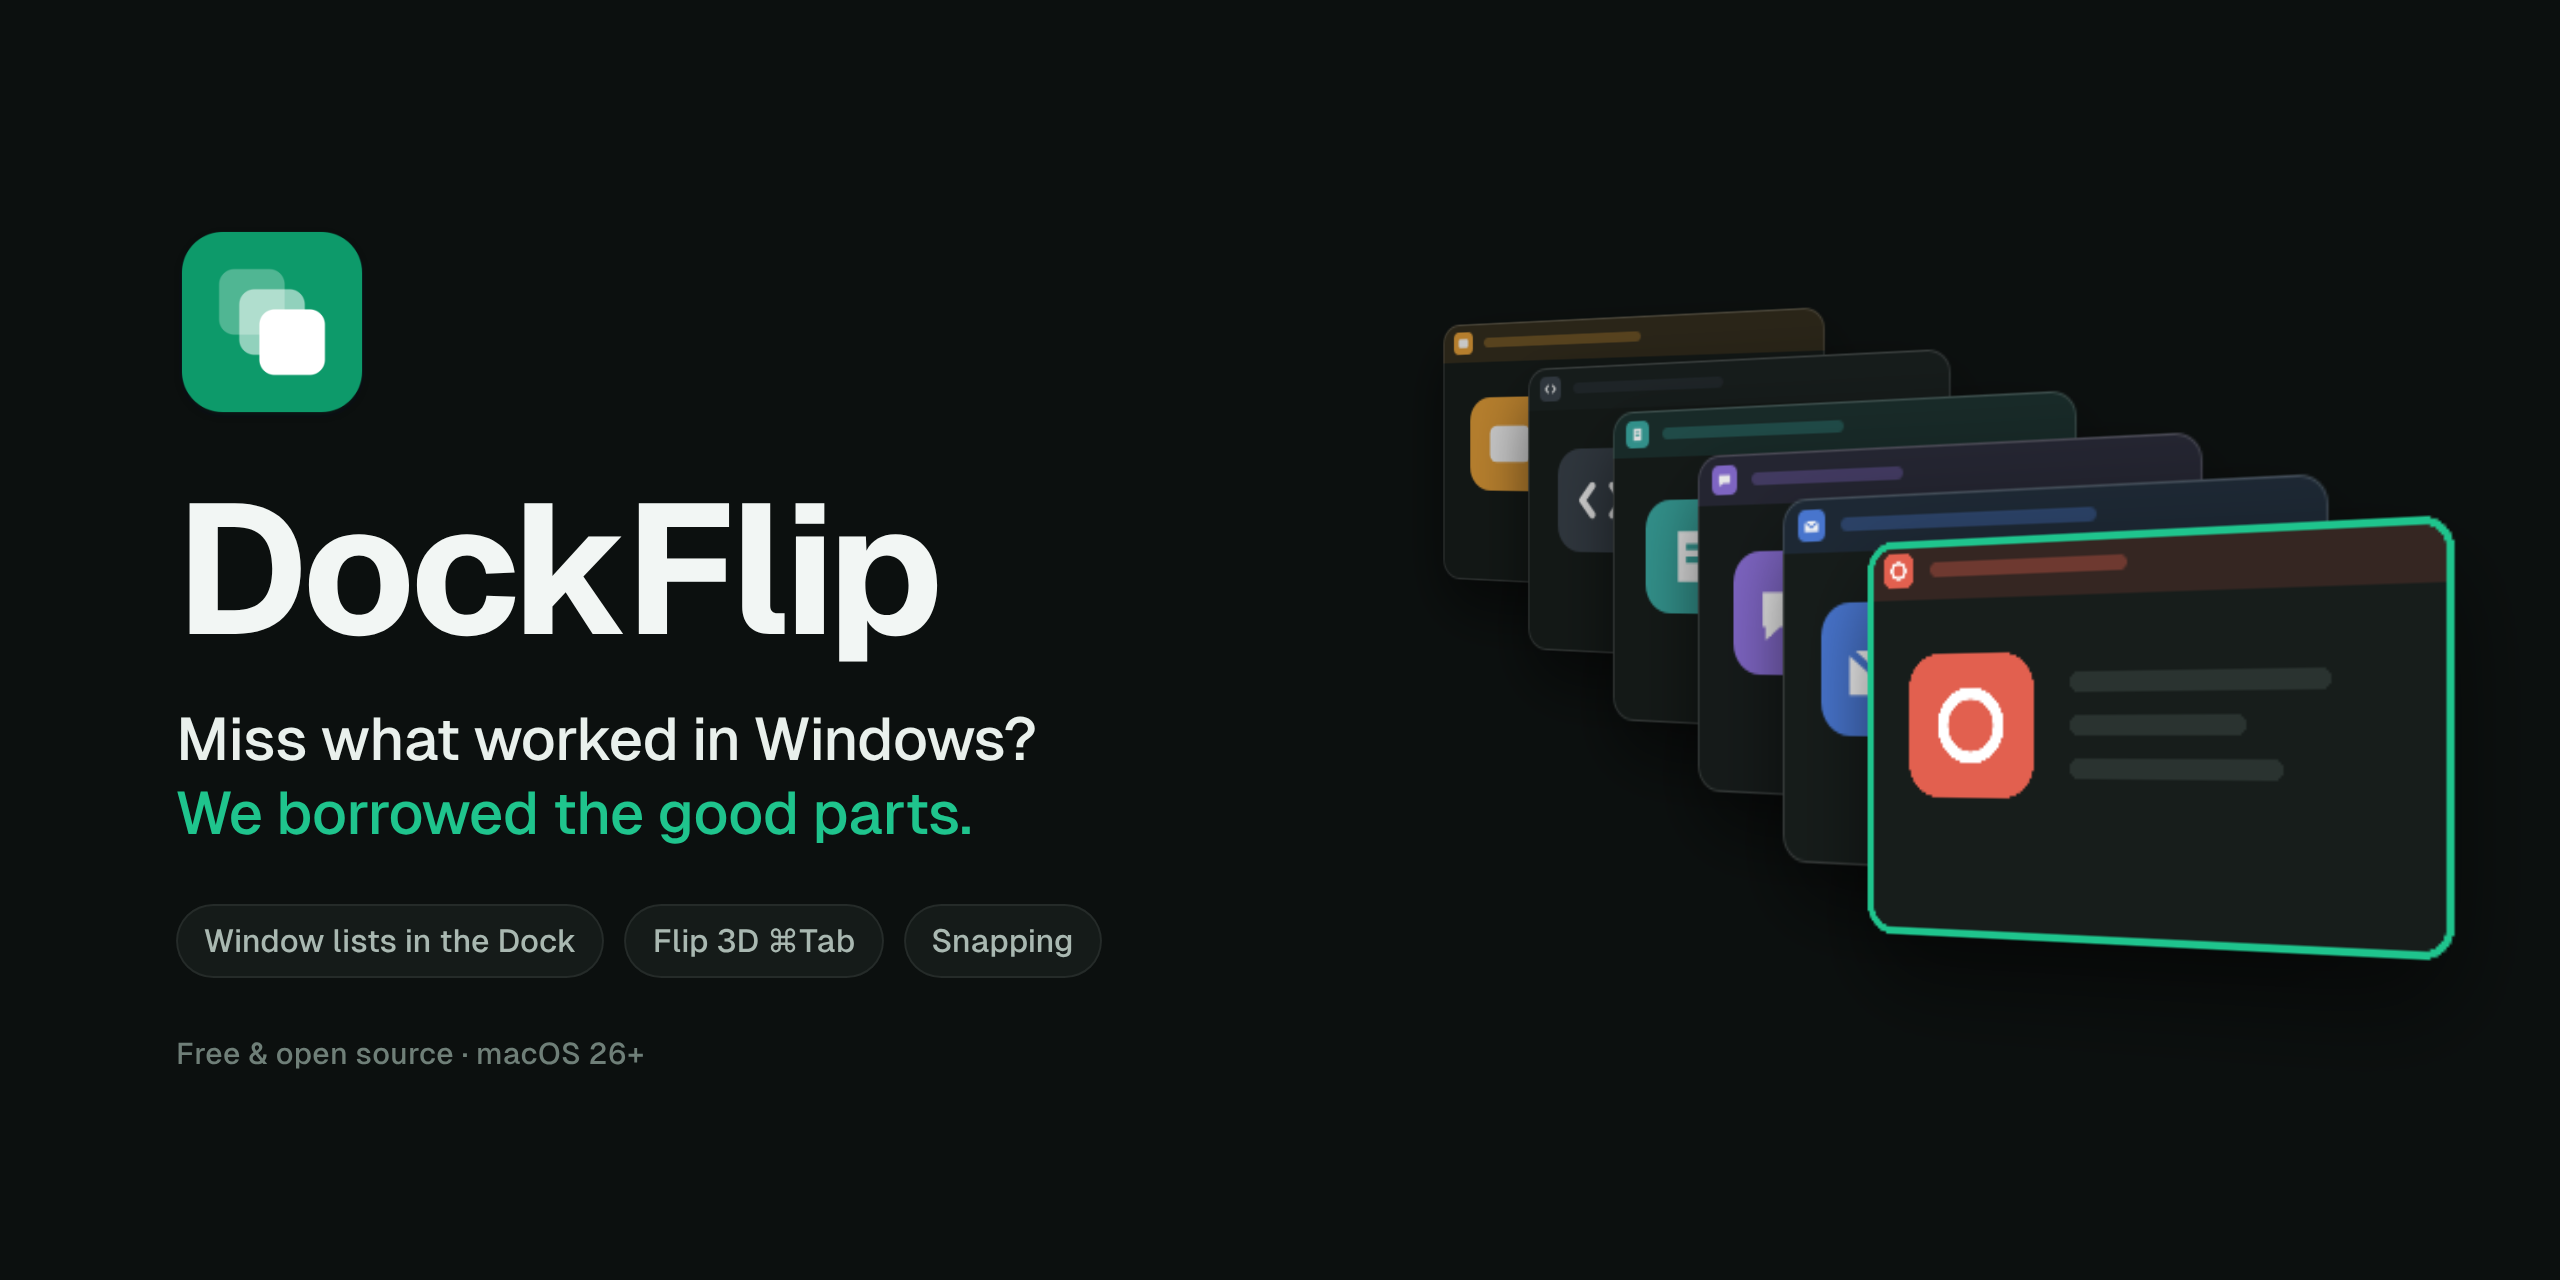
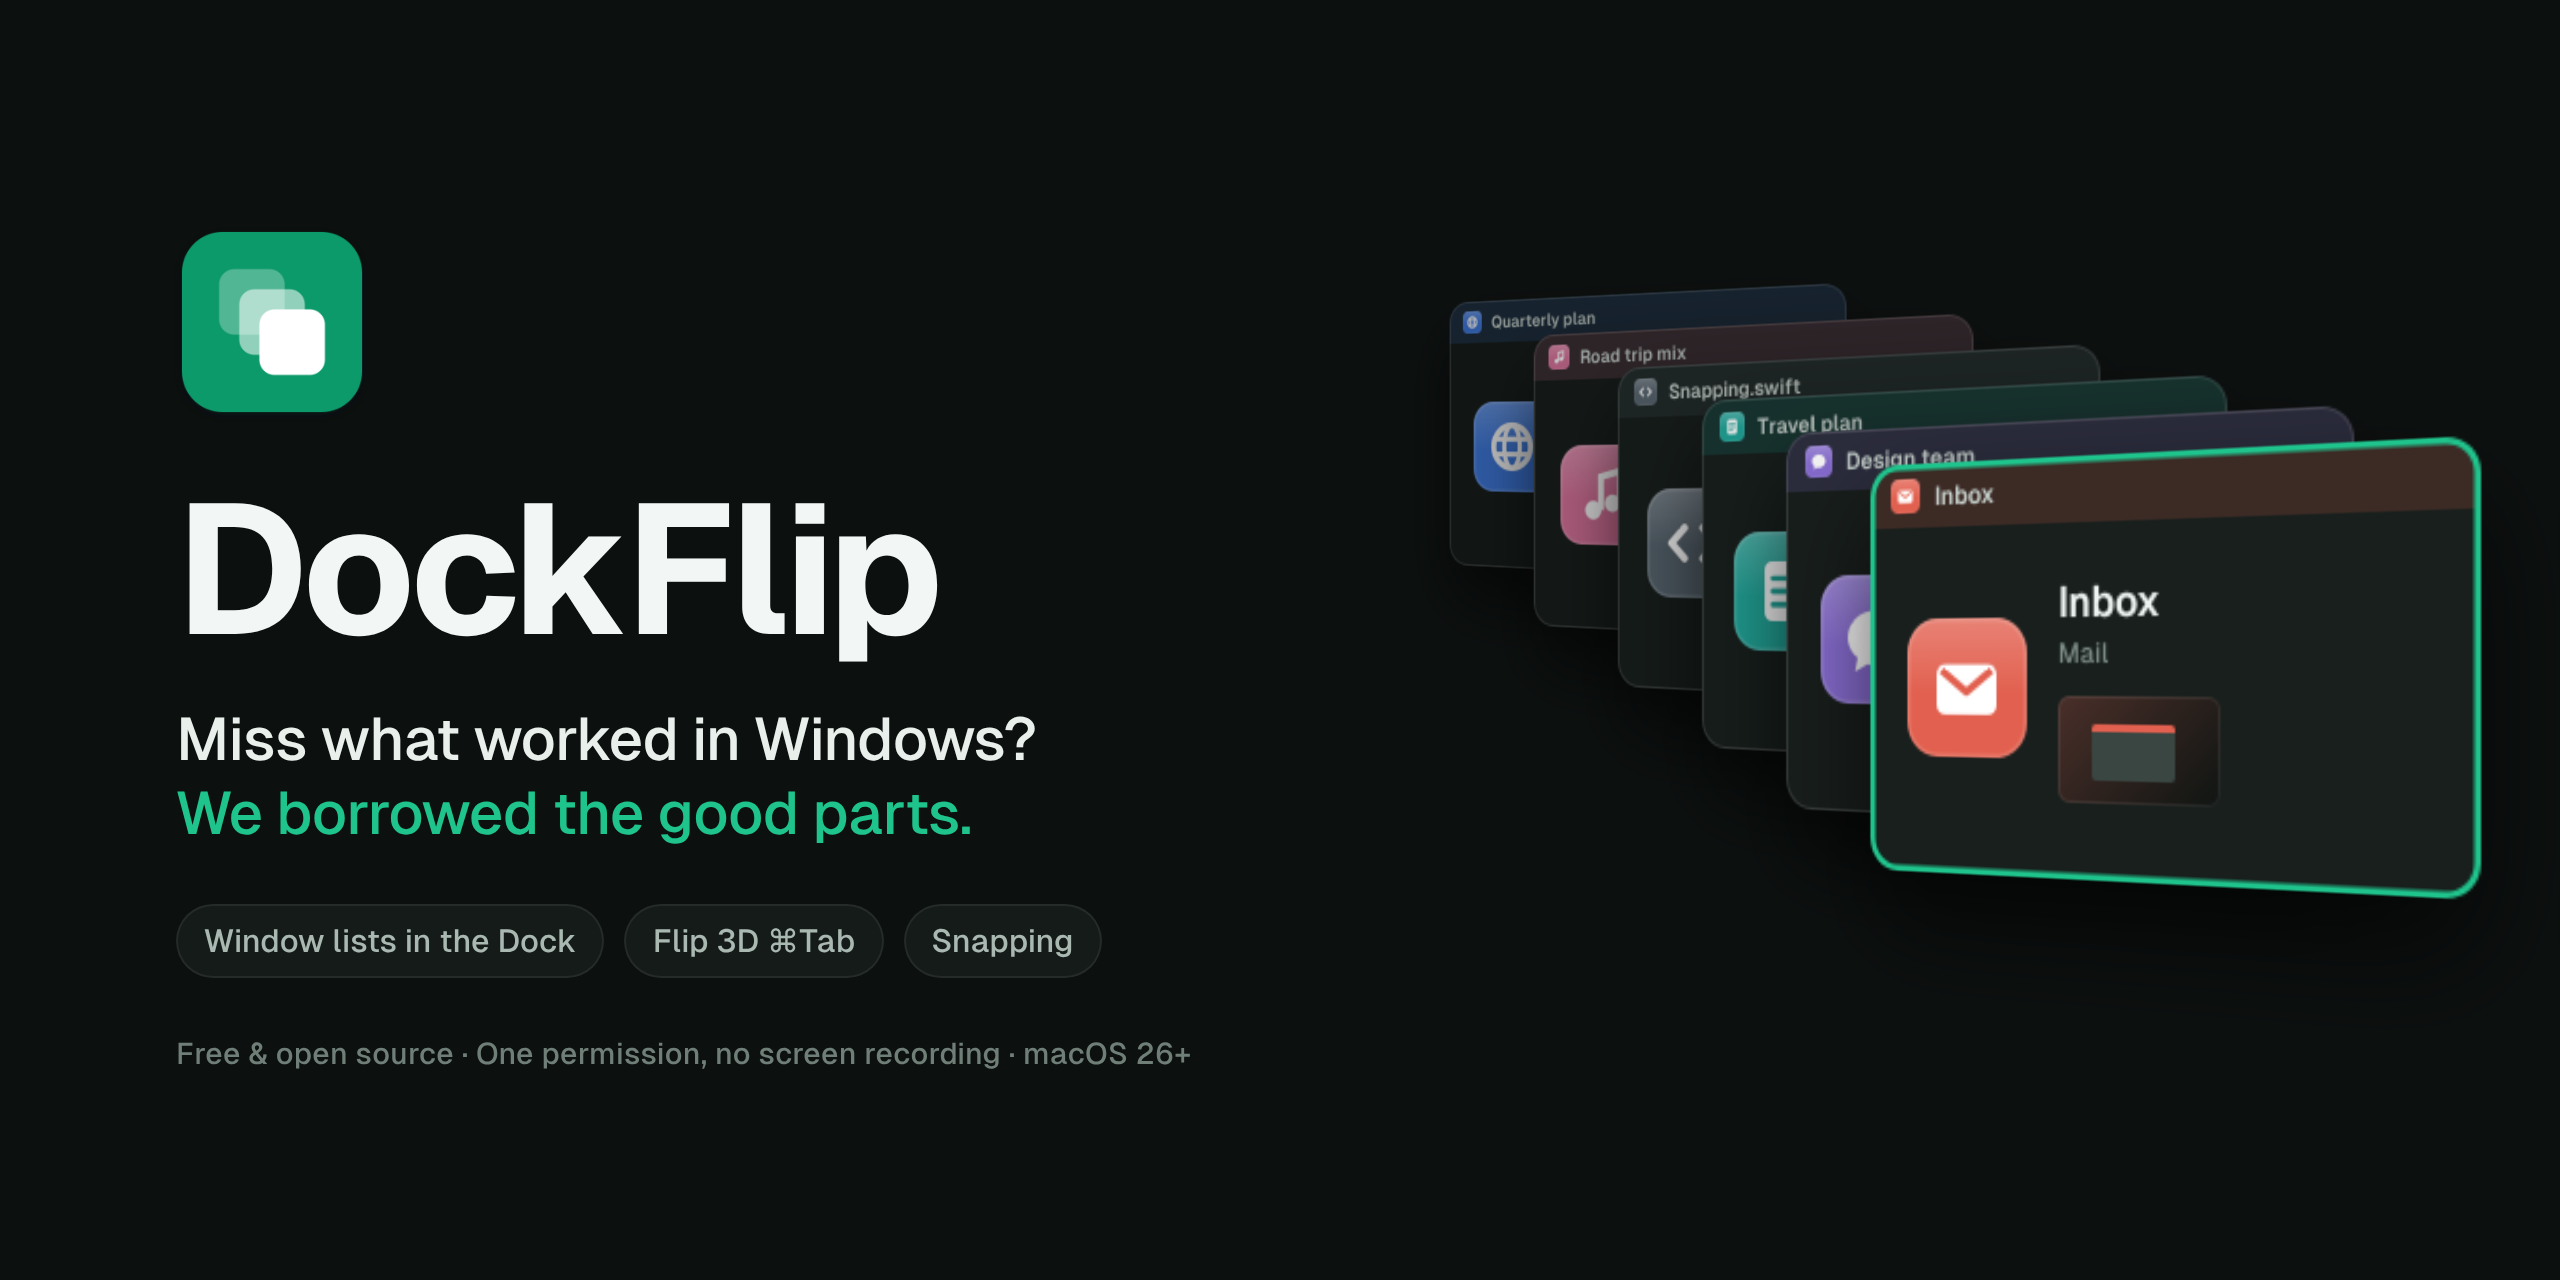
Illustrations: livelier Dock, ⌘Tab with type-to-filter, privacy
- Dock: magnification, staggered list, gliding hover, a click that opens
  the tab's window, a second app's list.
- ⌘Tab: flips, then filters as you type "plan" and opens the match.
- New privacy illustration: Accessibility only, no screen recording,
  no network, no third-party code.
- No amber anywhere; hero and social preview updated.

Changed region(s): [[0.5625, 0.2188, 0.9688, 0.75], [0.1875, 0.8125, 0.4688, 0.8438]]

diff --git a/README.md b/README.md
@@ -156,6 +156,8 @@ menu, where clicking one applies it.
 
 ## Privacy: no screen recording required
 
+<img src="docs/assets/feature-privacy.gif" alt="DockFlip asks for Accessibility only: no Screen Recording, no network access, no third-party code" width="100%">
+
 Most Dock preview apps and window switchers ask for **Screen Recording** the
 moment you open them, because they're built around screenshots of your windows.
 DockFlip isn't. Its window cards, mini-maps and tab lists are drawn from what

diff --git a/docs/wiki/Privacy-and-Permissions.md b/docs/wiki/Privacy-and-Permissions.md
@@ -1,5 +1,7 @@
 # Privacy and Permissions
 
+<img src="https://github.com/geezery/DockFlip/raw/main/docs/assets/feature-privacy.gif" alt="What DockFlip asks for" width="100%">
+
 DockFlip is nosy about your windows and nothing else.
 
 ## No screen recording required
